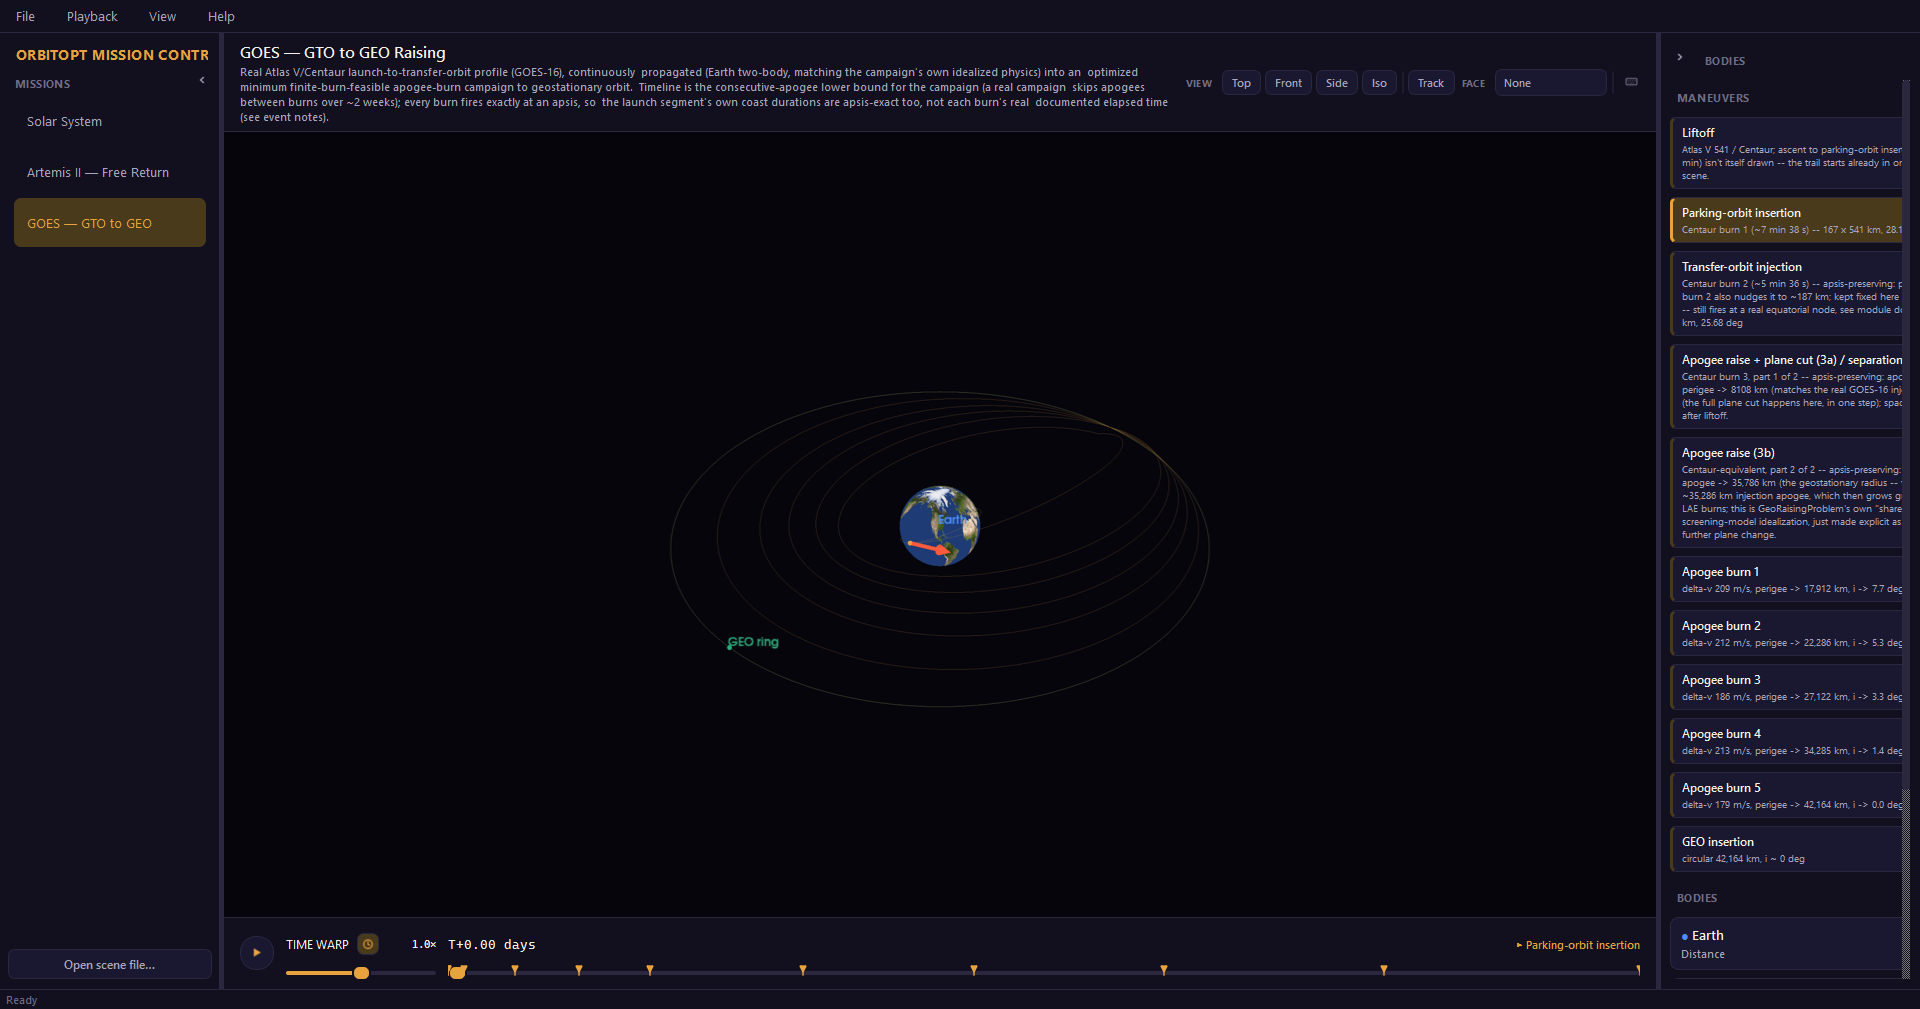
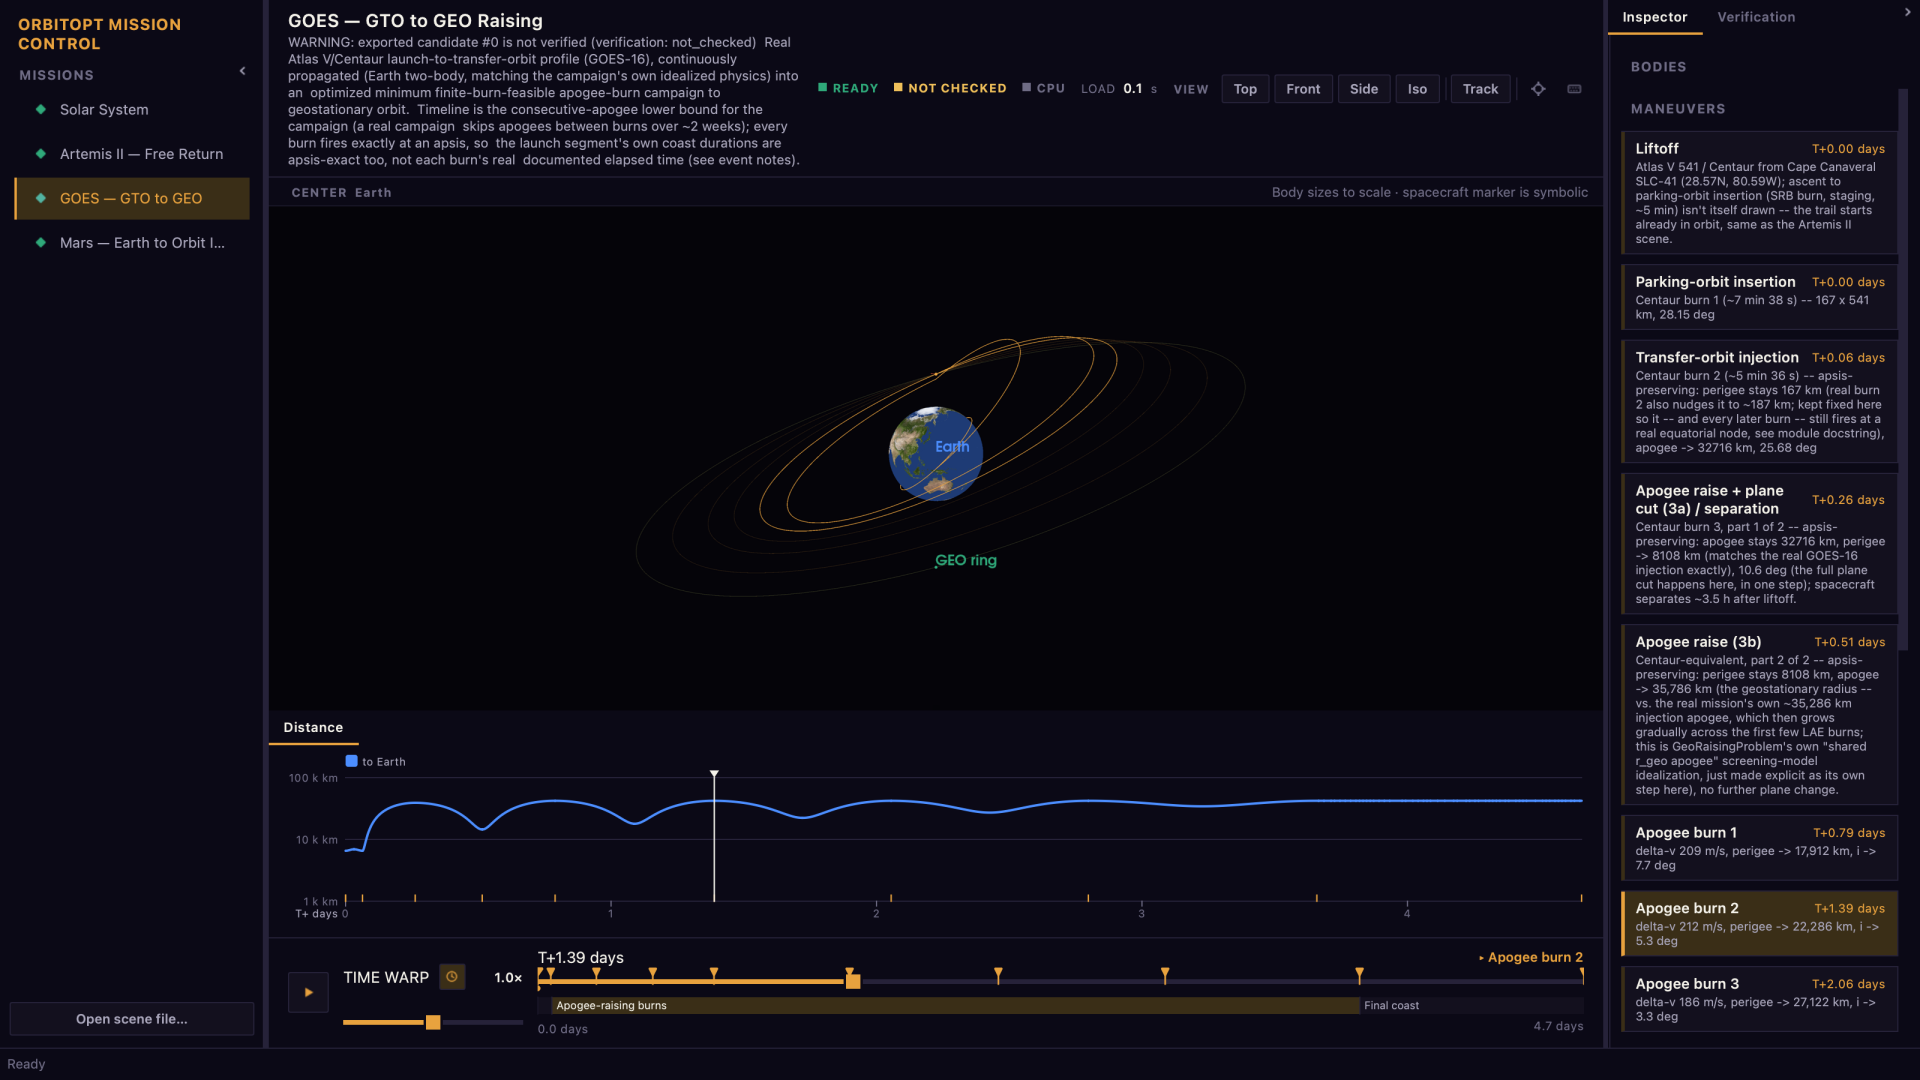
docs: new Mission Control screenshots and README section
- README hero is now the Mars transfer: candidate trajectories, the
  launch-window porkchop they came from, and the selected candidate's card.
- The Mission Control section describes the workbench region by region and
  adds an Artemis II shot (Moon-centered at closest approach, Verification
  tab, distance chart, lunar-flyby phase); shortcuts list updated.
- Site: the Mars shot as FIG. 1 in "Real missions, one viewer" (the
  porkchop becomes FIG. 2); module tree lists state.py and charts.py.
- scripts/capture_screenshots.py regenerates all three shots (window grab()
  composited with plotter.screenshot() for the 3D view); engineering notes
  point at it instead of the git history and record the device-pixel-ratio
  trap when compositing.
- mission-control-goes.png refreshed (no longer used by the README).

diff --git a/docs/index.html b/docs/index.html
@@ -994,6 +994,10 @@
       </div>
     </div>
     <div class="manifest-hint">⇠ swipe / scroll for the full manifest ⇢</div>
+    <figure class="figure" style="margin-top:28px">
+      <img src="assets/mission-control-mars.png" alt="Mission Control on the Earth-to-Mars transfer: candidate trajectories, the heliocentric transfer in 3D, the launch-window porkchop with the candidates on it, and the selected candidate's numbers" loading="lazy" />
+      <figcaption><span class="fignum">FIG. 1</span> — Mission Control on Earth→Mars: the optimizer's candidates, the launch-window screen they came from, and the verified flight</figcaption>
+    </figure>
   </div>
 </section>
 
@@ -1019,7 +1023,7 @@
       </div>
       <figure class="figure">
         <img src="assets/porkchop_earth_mars.png" alt="Earth to Mars porkchop plot: departure date vs. arrival date contour grid of total delta-v, generated from one batched GPU call" loading="lazy" />
-        <figcaption><span class="fignum">FIG. 1</span> — Earth→Mars porkchop grid, one batched GPU call — <code>examples/04_porkchop_gpu.py</code></figcaption>
+        <figcaption><span class="fignum">FIG. 2</span> — Earth→Mars porkchop grid, one batched GPU call — <code>examples/04_porkchop_gpu.py</code></figcaption>
       </figure>
     </div>
   </div>
@@ -1076,6 +1080,7 @@
              report.py                 <span class="comment"># schema-validated verification reports</span>
 <span class="path">viz/</span>         scene_renderer.py         <span class="comment"># one PyVista draw path, every scene</span>
              app.py                    <span class="comment"># Mission Control (PySide6 + pyvistaqt)</span>
+             state.py, charts.py        <span class="comment"># shared selection/time, linked 2D charts</span>
              solar_system.py, mission_timeline.py
              geo_raising.py, mars_transfer.py, porkchop.py
 <span class="path">mission_config.py</span>              <span class="comment"># YAML config -> validated -> built scene</span>

diff --git a/scripts/capture_screenshots.py b/scripts/capture_screenshots.py
@@ -1,0 +1,154 @@
+"""Capture the README / docs screenshots of Mission Control.
+
+    PYTHONPATH=src python scripts/capture_screenshots.py [--out docs/assets] [--width 1920]
+
+Each shot opens the real app on a built-in mission (served from the scene
+cache when it is warm -- a cold Mars compute takes many minutes), sets the
+view up, and saves a PNG scaled to ``--width`` pixels.
+
+A window ``grab()`` alone comes back black where the 3D view is: the VTK
+surface is a native OpenGL context Qt's compositor does not capture (see
+docs/engineering-notes.md). So each shot is a composite -- the Qt chrome from
+``grab()``, the 3D view from ``plotter.screenshot()`` pasted into its rect.
+An OS-level screen capture is deliberately not used: it can pick up whatever
+window has focus instead of the app.
+
+Needs a display (VTK's OpenGL context fails under QT_QPA_PLATFORM=offscreen).
+"""
+from __future__ import annotations
+
+import argparse
+import sys
+import time
+from pathlib import Path
+
+WINDOW_SIZE = (1600, 900)  # logical px; a 2x display doubles it
+
+
+def _pump(app, predicate, timeout=1800.0):
+    deadline = time.monotonic() + timeout
+    while not predicate():
+        if time.monotonic() > deadline:
+            raise TimeoutError("timed out waiting for the app")
+        app.processEvents()
+
+
+def _settle(app, seconds):
+    end = time.monotonic() + seconds
+    while time.monotonic() < end:
+        app.processEvents()
+
+
+def _composite(window):
+    """The window as an image, with the live 3D view pasted over the black
+    rectangle grab() leaves for it."""
+    import numpy as np
+    from PySide6.QtCore import QPoint, QRectF
+    from PySide6.QtGui import QImage, QPainter
+
+    image = window.grab().toImage()  # keeps the device pixel ratio...
+    pixels = np.ascontiguousarray(window.plotter.screenshot(return_img=True)[..., :3])
+    h, w = pixels.shape[:2]
+    view = QImage(pixels.data, w, h, 3 * w, QImage.Format_RGB888).copy()
+    origin = window.plotter.mapTo(window, QPoint(0, 0))
+    painter = QPainter(image)  # ...so this paints in logical coordinates
+    painter.setRenderHint(QPainter.SmoothPixmapTransform)
+    painter.drawImage(QRectF(origin.x(), origin.y(), window.plotter.width(), window.plotter.height()), view)
+    painter.end()
+    return image
+
+
+def _open_mission(app, window, title_prefix):
+    sidebar = window.sidebar
+    row = next(i for i in range(sidebar.count()) if sidebar.mission_list.item(i).text().startswith(title_prefix))
+    sidebar.select_row(row)
+    _settle(app, 0.2)
+    _pump(app, lambda: not window._loading)
+    _settle(app, 1.5)
+
+
+def shot_mars(app, w):
+    """Heliocentric Mars transfer mid-cruise: candidate arcs, the launch-window
+    chart with the candidates on it, the inspector's candidate card."""
+    _open_mission(app, w, "Mars")
+    w.view_strip.frame_button(None).click()
+    w._view_top()
+    w.plotter.reset_camera()
+    w.plotter.camera.zoom(1.45)  # the orbits fill the view, not just its middle
+    tl = w.state.timeline
+    w.state.set_time(tl["min"] + 0.45 * (tl["max"] - tl["min"]))
+    w.chart_panel.setCurrentWidget(w.chart_panel.porkchop)
+    w.right_tabs.setCurrentWidget(w.inspector)
+    w.plotter.render()
+    _settle(app, 1.0)
+
+
+def shot_artemis(app, w):
+    """Artemis II centered on the Moon at closest approach: the flyby phase
+    lit on the timeline, the distance chart, and the Verification tab."""
+    _open_mission(app, w, "Artemis")
+    closest = next(e for e in w.state.events if "approach" in e["label"].lower())
+    w.state.set_time(closest["time"])
+    _settle(app, 0.3)
+    w.view_strip.frame_button("moon").click()
+    _settle(app, 0.5)
+    w.chart_panel.setCurrentWidget(w.chart_panel.distance)
+    w._show_verification_tab()
+    w.plotter.render()
+    _settle(app, 1.0)
+
+
+def shot_goes(app, w):
+    """The GOES GTO-to-GEO raising campaign mid-way through its burns."""
+    _open_mission(app, w, "GOES")
+    burns = [e for e in w.state.events if "vector" in e]
+    w.state.set_time(burns[len(burns) // 2]["time"] if burns else w.state.timeline["max"] * 0.5)
+    w.chart_panel.setCurrentWidget(w.chart_panel.distance)
+    w.right_tabs.setCurrentWidget(w.inspector)
+    w.plotter.camera.zoom(1.8)
+    w.plotter.render()
+    _settle(app, 1.0)
+
+
+SHOTS = {
+    "mission-control-mars.png": shot_mars,
+    "mission-control-artemis.png": shot_artemis,
+    "mission-control-goes.png": shot_goes,
+}
+
+
+def main(argv=None) -> int:
+    parser = argparse.ArgumentParser(description=__doc__.split("\n\n")[0])
+    parser.add_argument("--out", default="docs/assets", type=Path)
+    parser.add_argument("--width", default=1920, type=int, help="output width in pixels")
+    parser.add_argument("--only", nargs="*", choices=sorted(SHOTS), help="capture just these")
+    args = parser.parse_args(argv)
+
+    from PySide6.QtCore import Qt
+    from PySide6.QtWidgets import QApplication
+
+    from orbitopt.viz.app import MissionControlWindow
+
+    app = QApplication.instance() or QApplication(sys.argv[:1])
+    window = MissionControlWindow()
+    window.resize(*WINDOW_SIZE)
+    window.show()
+    _pump(app, lambda: not window._loading)
+    args.out.mkdir(parents=True, exist_ok=True)
+    try:
+        for name, setup in SHOTS.items():
+            if args.only and name not in args.only:
+                continue
+            setup(app, window)
+            image = _composite(window).scaledToWidth(args.width, Qt.SmoothTransformation)
+            path = args.out / name
+            image.save(str(path))
+            print(f"wrote {path} ({image.width()}x{image.height()})", flush=True)
+    finally:
+        window.plotter.close()
+        window.close()
+    return 0
+
+
+if __name__ == "__main__":
+    sys.exit(main())

diff --git a/README.md b/README.md
@@ -11,9 +11,10 @@ optimization framework. It searches huge design spaces with cheap
 patched-conic models (**pykep + pygmo**, batched on the GPU with **CuPy**),
 then re-flies the winners under high-fidelity numerical propagation
 (**tudatpy**) and writes a machine-readable verification report for every
-result. Mission Control, a desktop 3D app, plays the missions back.
+result. Mission Control, a desktop 3D app, plays the missions back and shows
+why a trajectory was chosen and how well it was verified.
 
-![Mission Control, playing back the GOES GTO-to-GEO raising campaign](docs/assets/mission-control-goes.png)
+![Mission Control on the Earth-to-Mars transfer: the optimizer's candidate trajectories on the left, the heliocentric transfer in 3D, the launch-window porkchop with the candidates on it below, and the selected candidate's numbers on the right](docs/assets/mission-control-mars.png)
 
 ## What it does
 
@@ -22,7 +23,7 @@ result. Mission Control, a desktop 3D app, plays the missions back.
 | **Search** | Batched Lambert solver, porkchop grids, pygmo optimizers with GPU batch fitness, multi-basin multistart | `lambert/`, `optimize/`, `problems/` |
 | **Launch** | Daily launch windows from a site database (range-safety azimuth corridors), vehicle C3/payload curves as optimizer constraints, LEO parking orbit → TLI/TMI injection | `launch_windows.py`, `launch_constraints.py`, `injection.py` |
 | **Verify** | tudatpy N-body propagation (adaptive RKDP8(7)), dense-output event location, Newton/B-plane targeters (TCM, MOI, lunar flyby, GEO insertion), JSON verification reports | `verify/` |
-| **Visualize** | Versioned scene file format, single-scene viewer, Mission Control app | `scene_format.py`, `viz/` |
+| **Visualize** | Versioned scene file format, single-scene viewer, Mission Control: planet-centered views, candidate comparison, verification reports, linked porkchop / distance charts | `scene_format.py`, `viz/` |
 
 Built-in missions: **Artemis II** free return, **GOES** GTO→GEO raising,
 **Earth → Mars** orbit insertion, and the solar system.
@@ -136,6 +137,7 @@ src/orbitopt/
   launch_*.py, injection.py    sites, vehicles, constraints, windows, parking orbit → TLI/TMI
   verify/                      tudatpy propagation, events, B-plane, targeters, reports
   viz/                         porkchop, mission exporters, renderer, viewer, Mission Control
+                               (app.py + state, panels, charts; see its module docstring)
 ```
 
 To add a problem type, subclass `orbitopt.core.problem.OrbitOptProblem`. If it
@@ -165,15 +167,39 @@ The package has three layers, and only the last needs conda:
 
 ## Mission Control
 
+A desktop app (PySide6 + pyvistaqt) for working through a mission, not just
+playing it. Every panel follows the same selection and mission time:
+
+- **Missions and trajectories** (left). Switch missions without relaunching;
+  `File > Open scene file...` opens any scene JSON. For an optimized mission
+  the TRAJECTORIES list shows every distinct candidate the optimizer found,
+  with what happened to it at the verification gate. Picking one highlights
+  its two-body Lambert screening arc in 3D.
+- **3D view, centered where it matters** (middle). The CENTER strip
+  re-centers the view on the Sun, Earth, Mars or the Moon, so the Earth
+  departure and the Mars capture are visible at their own scale inside a
+  heliocentric transfer. It also says whether body sizes are to scale.
+- **Linked charts** (below). *Launch window*: the porkchop grid the search
+  screened, with the candidates on it; click one to select it. *Distance*:
+  the spacecraft's distance to each body over the mission; click or drag to
+  move the mission time.
+- **Inspector and Verification** (right). Body readouts, maneuvers and the
+  selected candidate's numbers; and the high-fidelity verification reports:
+  every check, residuals against their tolerances, force model, integrator
+  step convergence, conservation. The title bar always shows VERIFIED,
+  VERIFY FAILED or NOT CHECKED.
+- **Timeline** (bottom). Time warp, events, and the mission's phases
+  (parking orbit, cruise, lunar flyby, ...); click a phase to jump to it.
+
+![Artemis II centered on the Moon at closest approach: the lunar-flyby phase lit on the timeline, the distance chart dipping at the Moon, and the Verification tab listing the checks the free return passed](docs/assets/mission-control-artemis.png)
+
 <img src="docs/assets/mission-control-shortcuts.png" alt="Mission Control keyboard shortcuts" width="320" align="right">
 
-A desktop app (PySide6 + pyvistaqt). It has a mission list, a 3D view, live
-orbit readouts for each body, and a time-warp strip with an event log for
-scenes that have a timeline. You can switch missions without relaunching,
-and `File > Open scene file...` opens any scene JSON.
+Shortcuts: Space play/pause · ←/→ step · Shift+←/→ previous/next event ·
+Home restart · `[` `]` time warp · T track body · M focus body ·
+I toggle the right panel · F1 shortcut reference.
 
-Shortcuts: Space play/pause · ←/→ step · Home restart · `[` `]` time warp ·
-T track body · M focus body · F1 shortcut reference.
+The screenshots are regenerated with `scripts/capture_screenshots.py`.
 
 <br clear="right">
 

diff --git a/docs/engineering-notes.md b/docs/engineering-notes.md
@@ -176,13 +176,15 @@ fails outright under Qt's `offscreen` platform plugin
 (`QT_QPA_PLATFORM=offscreen`), so `tests/test_app.py` runs against a real
 (if briefly-shown) window rather than a headless one, unlike this
 project's other `off_screen=True` PyVista tests. README.md's own
-screenshots were captured this way -- see the git history of
-`docs/assets/mission-control-*.png` for the actual capture script's
-approach (composite `window.grab()` with `plotter.screenshot()` for just
-the viewport region; a real OS-level screen capture was tried first and
+screenshots are captured this way by `scripts/capture_screenshots.py`
+(composite `window.grab()` with `plotter.screenshot()` for just the
+viewport region; a real OS-level screen capture was tried first and
 rejected after it picked up an unrelated foreground window instead of the
 app -- not safe to rely on in an environment where this process can't
-reliably hold OS focus).
+reliably hold OS focus). One trap when compositing: the image `grab()`
+returns keeps the window's device pixel ratio, so a QPainter on it already
+works in logical coordinates -- scaling the viewport rect by the ratio
+again pastes the 3D view at twice its offset on a Retina display.
 
 ## VTK point markers: constant apparent size, and a bug this sidesteps
 
